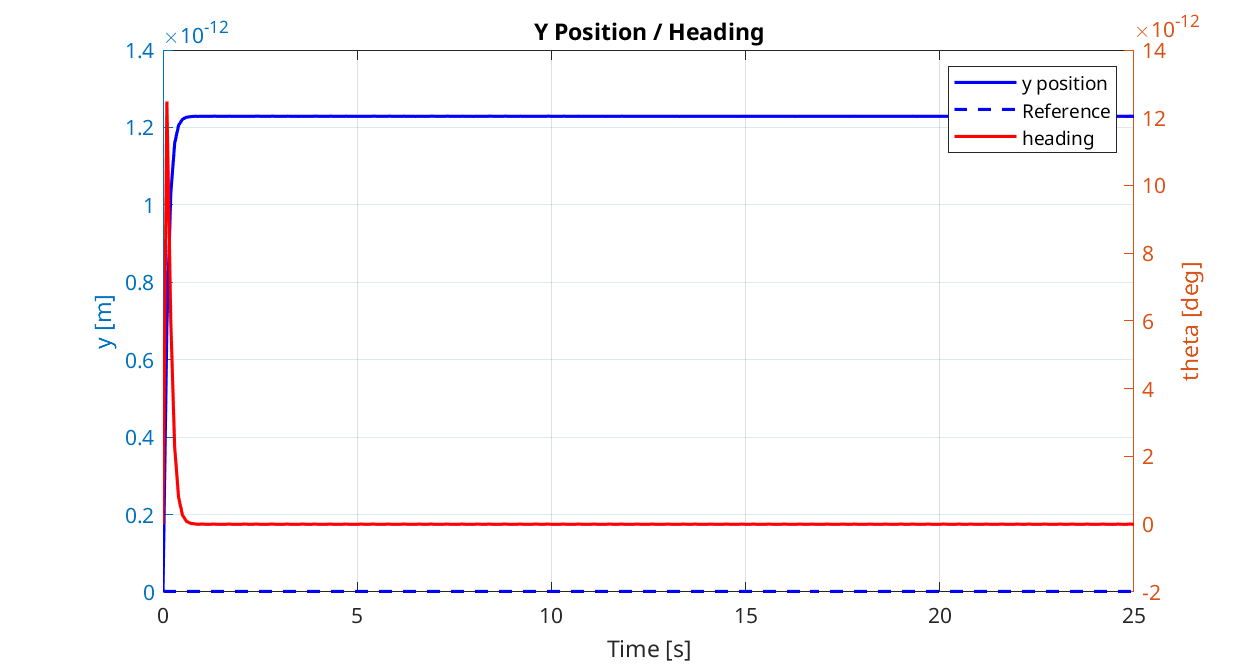
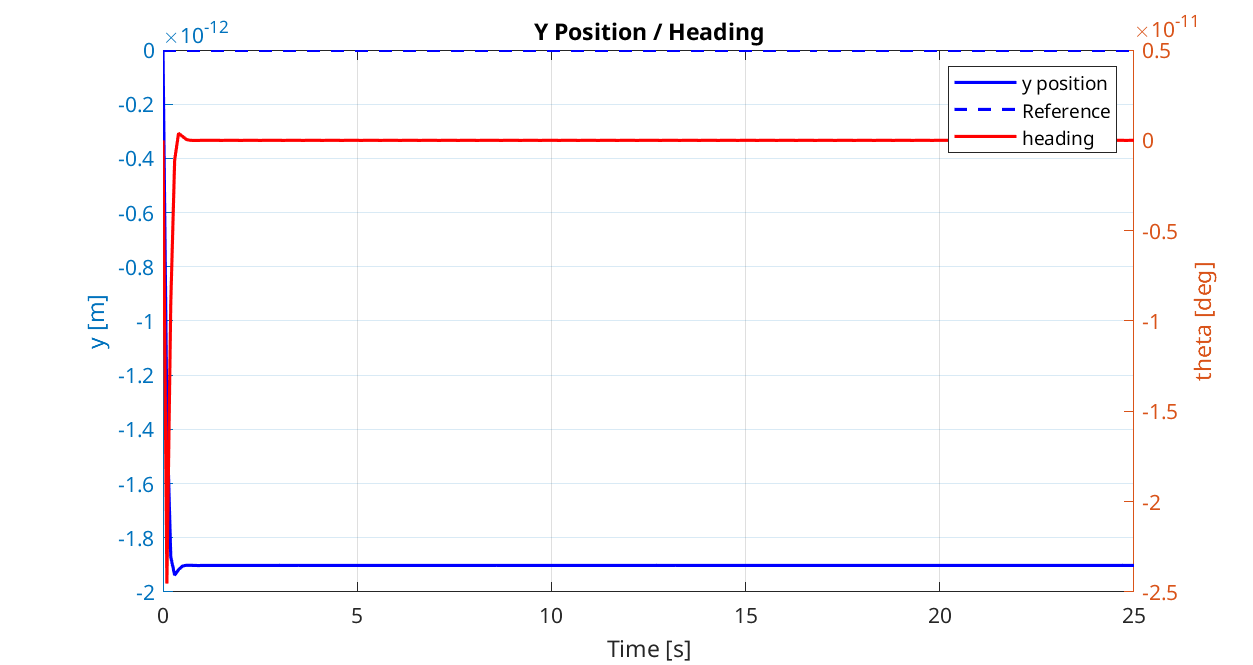
Deliverable 5 finished

diff --git a/Deliverable_5/tube_mpc_sets.m b/Deliverable_5/tube_mpc_sets.m
@@ -30,8 +30,8 @@ B = -B;  % This matches equation (9) from the problem statement
 
 % Define cost weights for tracking control
 % States: [relative position; relative velocity]
-Q_track = diag([10, 30]);  % Higher weight on velocity than position 
-R_track = 1;              % Moderate penalty on control effort
+Q_track = diag([20, 54]);  % Higher weight on velocity than position 
+R_track = 1.5;               % Moderate penalty on control effort
 
 % Compute optimal feedback gain using discrete-time LQR
 K = -dlqr(A, B, Q_track, R_track); 

diff --git a/Deliverable_5/plot_results.m b/Deliverable_5/plot_results.m
@@ -4,7 +4,6 @@ function [f1, f2, f3, f4, f5, f6] = plot_results(result, varargin)
 % throttle, steering, disturbance estimation, and relative distance
 %
 % Inputs:
-%   car - Structure containing vehicle parameters
 %   result - Structure containing simulation results
 %   varargin - Optional input for save directory (default: 'plots')
 %

diff --git a/Deliverable_5/robust_tube_mpc.m b/Deliverable_5/robust_tube_mpc.m
@@ -4,7 +4,7 @@ clc
 
 %% Initialize MPC Controllers
 Ts = 1/10;                               % Sample time: 0.1 seconds
-H = 3;                                   % Prediction horizon: 2 seconds
+H = 2;                                   % Prediction horizon: 2 seconds
 
 % Setup car and get linearized model
 car = Car(Ts);
